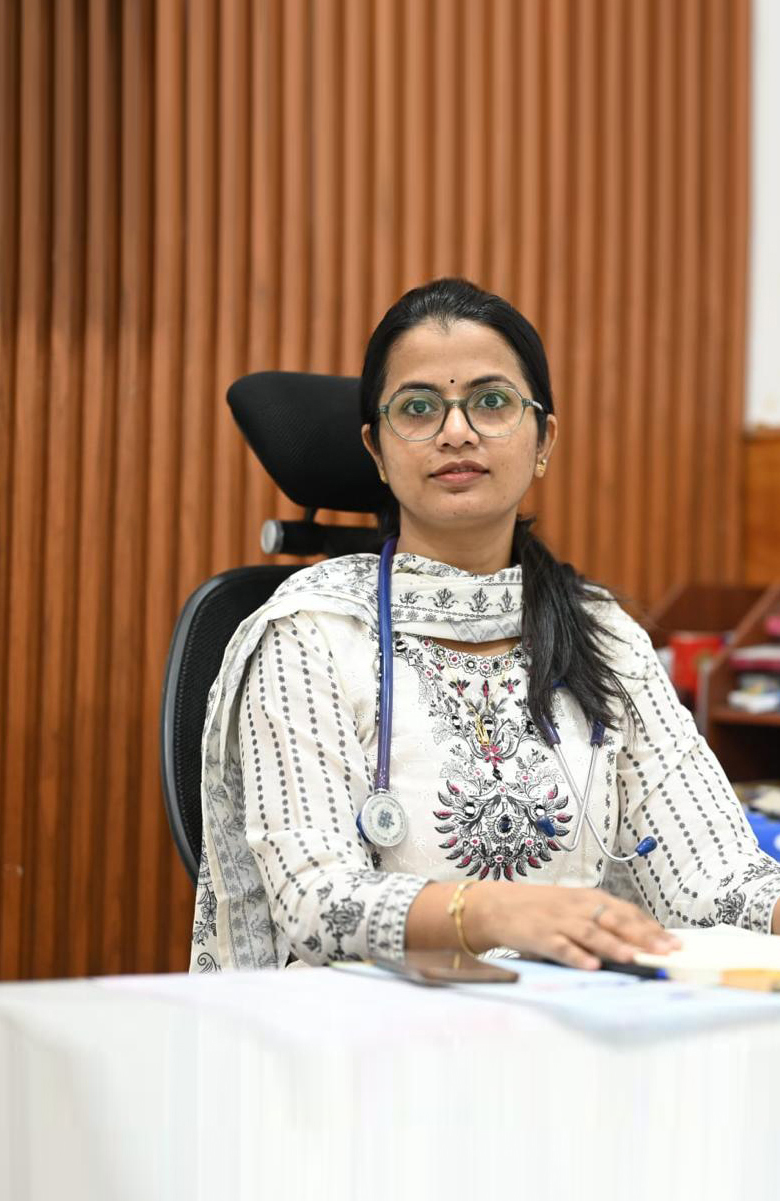
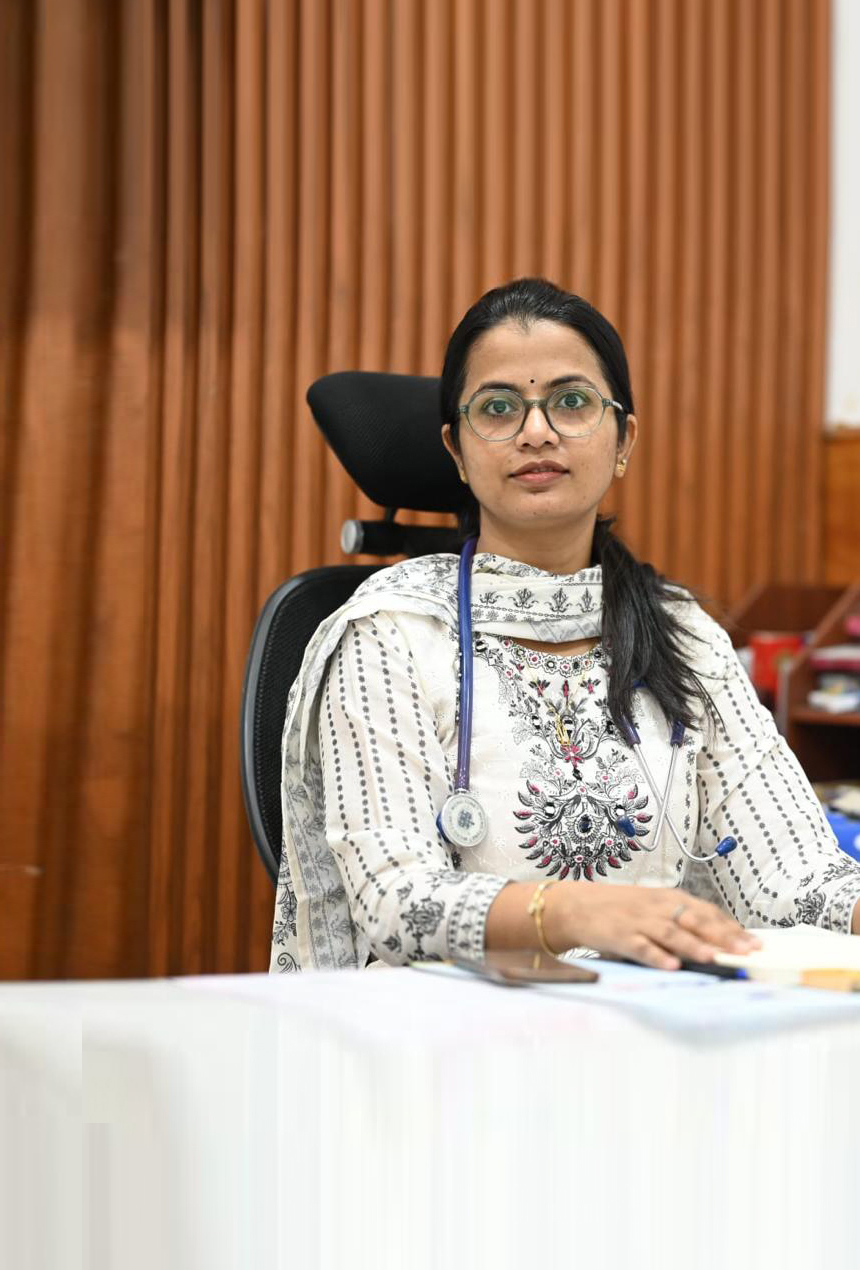
ff

diff --git a/src/Component/HeroSection.jsx b/src/Component/HeroSection.jsx
@@ -158,7 +158,15 @@ export default function HeroSection() {
             src={DrAnjaliCverticle}
             // src={DrLalOPD}
             alt="Abhay Jeevan Hospital"
-            className="w-full hidde lg:block h-full object-cover object-center"
+            className="w-full md:hidden h-full object-cover object-center"
+          />
+          <img
+            // src={AHHero}
+            src={DrAnjaliC}
+            // src={DrAnjaliCverticle}
+            // src={DrLalOPD}
+            alt="Abhay Jeevan Hospital"
+            className="w-full hidden lg:block h-full object-cover object-center"
           />
         </div>
 